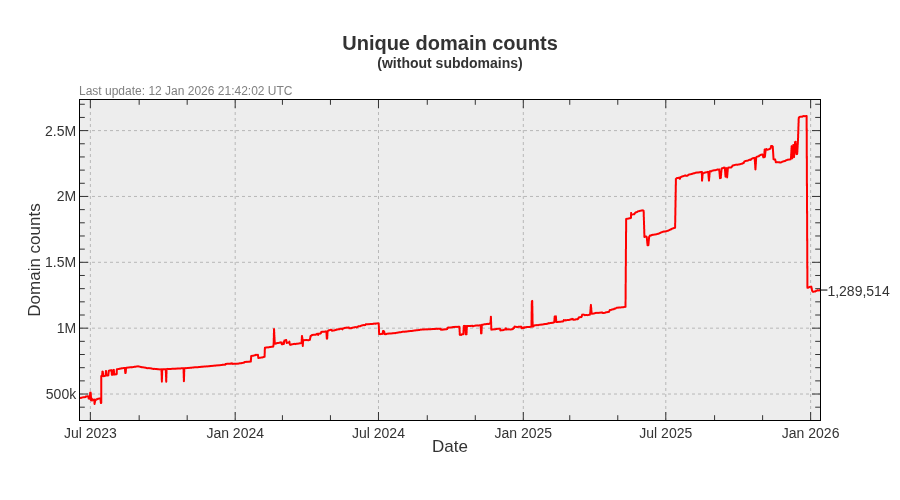
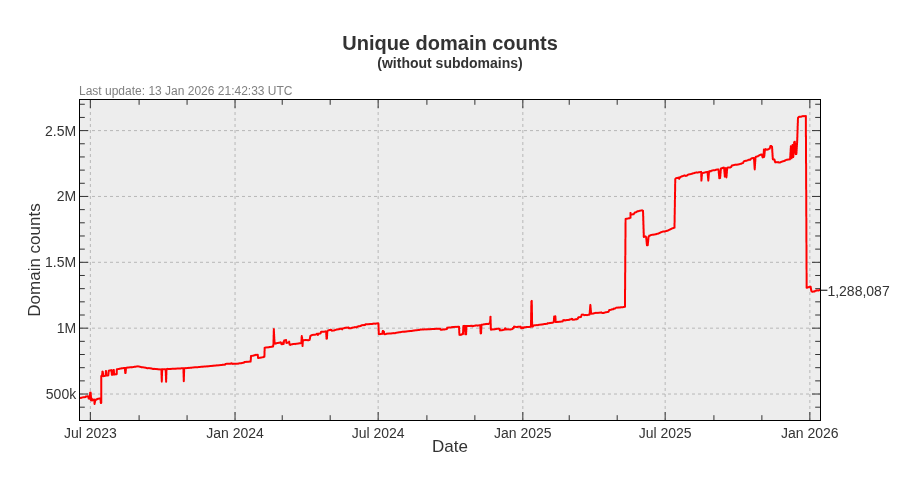
Update pages

diff --git a/README.md b/README.md
@@ -3,22 +3,22 @@ A blocklist file for blocking ads, trackers and malware domains.
 
[1 lines of base64/hex data omitted]
 
-- Unique domains: 1,931,599
-- Without subdomains: 1,289,514
-- Last update: 12 Jan 2026 21:42:02 UTC
-- Version: 2026.01.12.01
+- Unique domains: 1,926,391
+- Without subdomains: 1,288,087
+- Last update: 13 Jan 2026 21:42:33 UTC
+- Version: 2026.01.13.01
 
 
 ### Downloads:
 
 | Format             | Domain count      | Download Link |
 |:------------------ | -----------------:|:-------------:|
-| *Adblock Plus*     | 1,289,514 | [Download](https://dl.cenk.app/bad-hosts/bad-hosts-abp) |
-| *Wildcard domains* | 1,289,514 | [Download](https://dl.cenk.app/bad-hosts/bad-hosts-wildcard) |
-| *dnsmasq*          | 1,289,514 | [Download](https://dl.cenk.app/bad-hosts/bad-hosts-dnsmasq) |
-| *hosts*            | 1,931,599 | [Download](https://dl.cenk.app/bad-hosts/hosts) |
-| *hosts (ipv6)*     | 1,931,599 | [Download](https://dl.cenk.app/bad-hosts/hosts-ipv6) |
-| *Plain domains*    | 1,931,599 | [Download](https://dl.cenk.app/bad-hosts/bad-hosts-domains) |
+| *Adblock Plus*     | 1,288,087 | [Download](https://dl.cenk.app/bad-hosts/bad-hosts-abp) |
+| *Wildcard domains* | 1,288,087 | [Download](https://dl.cenk.app/bad-hosts/bad-hosts-wildcard) |
+| *dnsmasq*          | 1,288,087 | [Download](https://dl.cenk.app/bad-hosts/bad-hosts-dnsmasq) |
+| *hosts*            | 1,926,391 | [Download](https://dl.cenk.app/bad-hosts/hosts) |
+| *hosts (ipv6)*     | 1,926,391 | [Download](https://dl.cenk.app/bad-hosts/hosts-ipv6) |
+| *Plain domains*    | 1,926,391 | [Download](https://dl.cenk.app/bad-hosts/bad-hosts-domains) |
 
 ### Domain count history
 #### With subdomains
